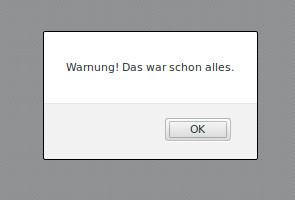
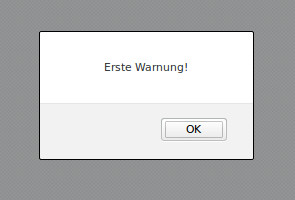
Button mit onclick-Attribut in Eventlistener-Folie aufgenommen

diff --git a/2012-12-20-javascript-advanced/index.html b/2012-12-20-javascript-advanced/index.html
@@ -218,15 +218,16 @@ input_element.value = "Hallo, " + input_textwert.value;
 			            <li class="fragment" style="list-style-type: none;">
 			                <pre><code class="xml">
 &lt;body>
-    &lt;button id="alert_button">Klick mich!&lt;/button>
+    &lt;button onclick="alert('Erste Warnung!');">Klick mich!&lt;/button>
+    &lt;button id="alert_button">Jetzt mich!&lt;/button>
 &lt;/body>
                             </code></pre>
                             <img class="fragment" src="./imgs/event_listener_beispiel_button.jpg" style="box-shadow: 0 0 20px #000; position: absolute; top: 70px; left: 655px; z-index: 999;" alt="Button mit 'Klick mich!'-Titel">
-			                <pre class="fragment" style="margin-top: 50px;"><code style="overflow: hidden;" class="javascript">
+			                <pre class="fragment" style="margin-top: 25px;"><code style="overflow: hidden;" class="javascript">
 var button_element = document.getElementById('alert_button');
 
 function warnmeldung(event_object) {
-    alert('Warnung! Das war schon alles.');
+    alert('Zweite Warnung! Das war schon alles');
 }
 
 button_element.addEventListener('click', warnmeldung);
